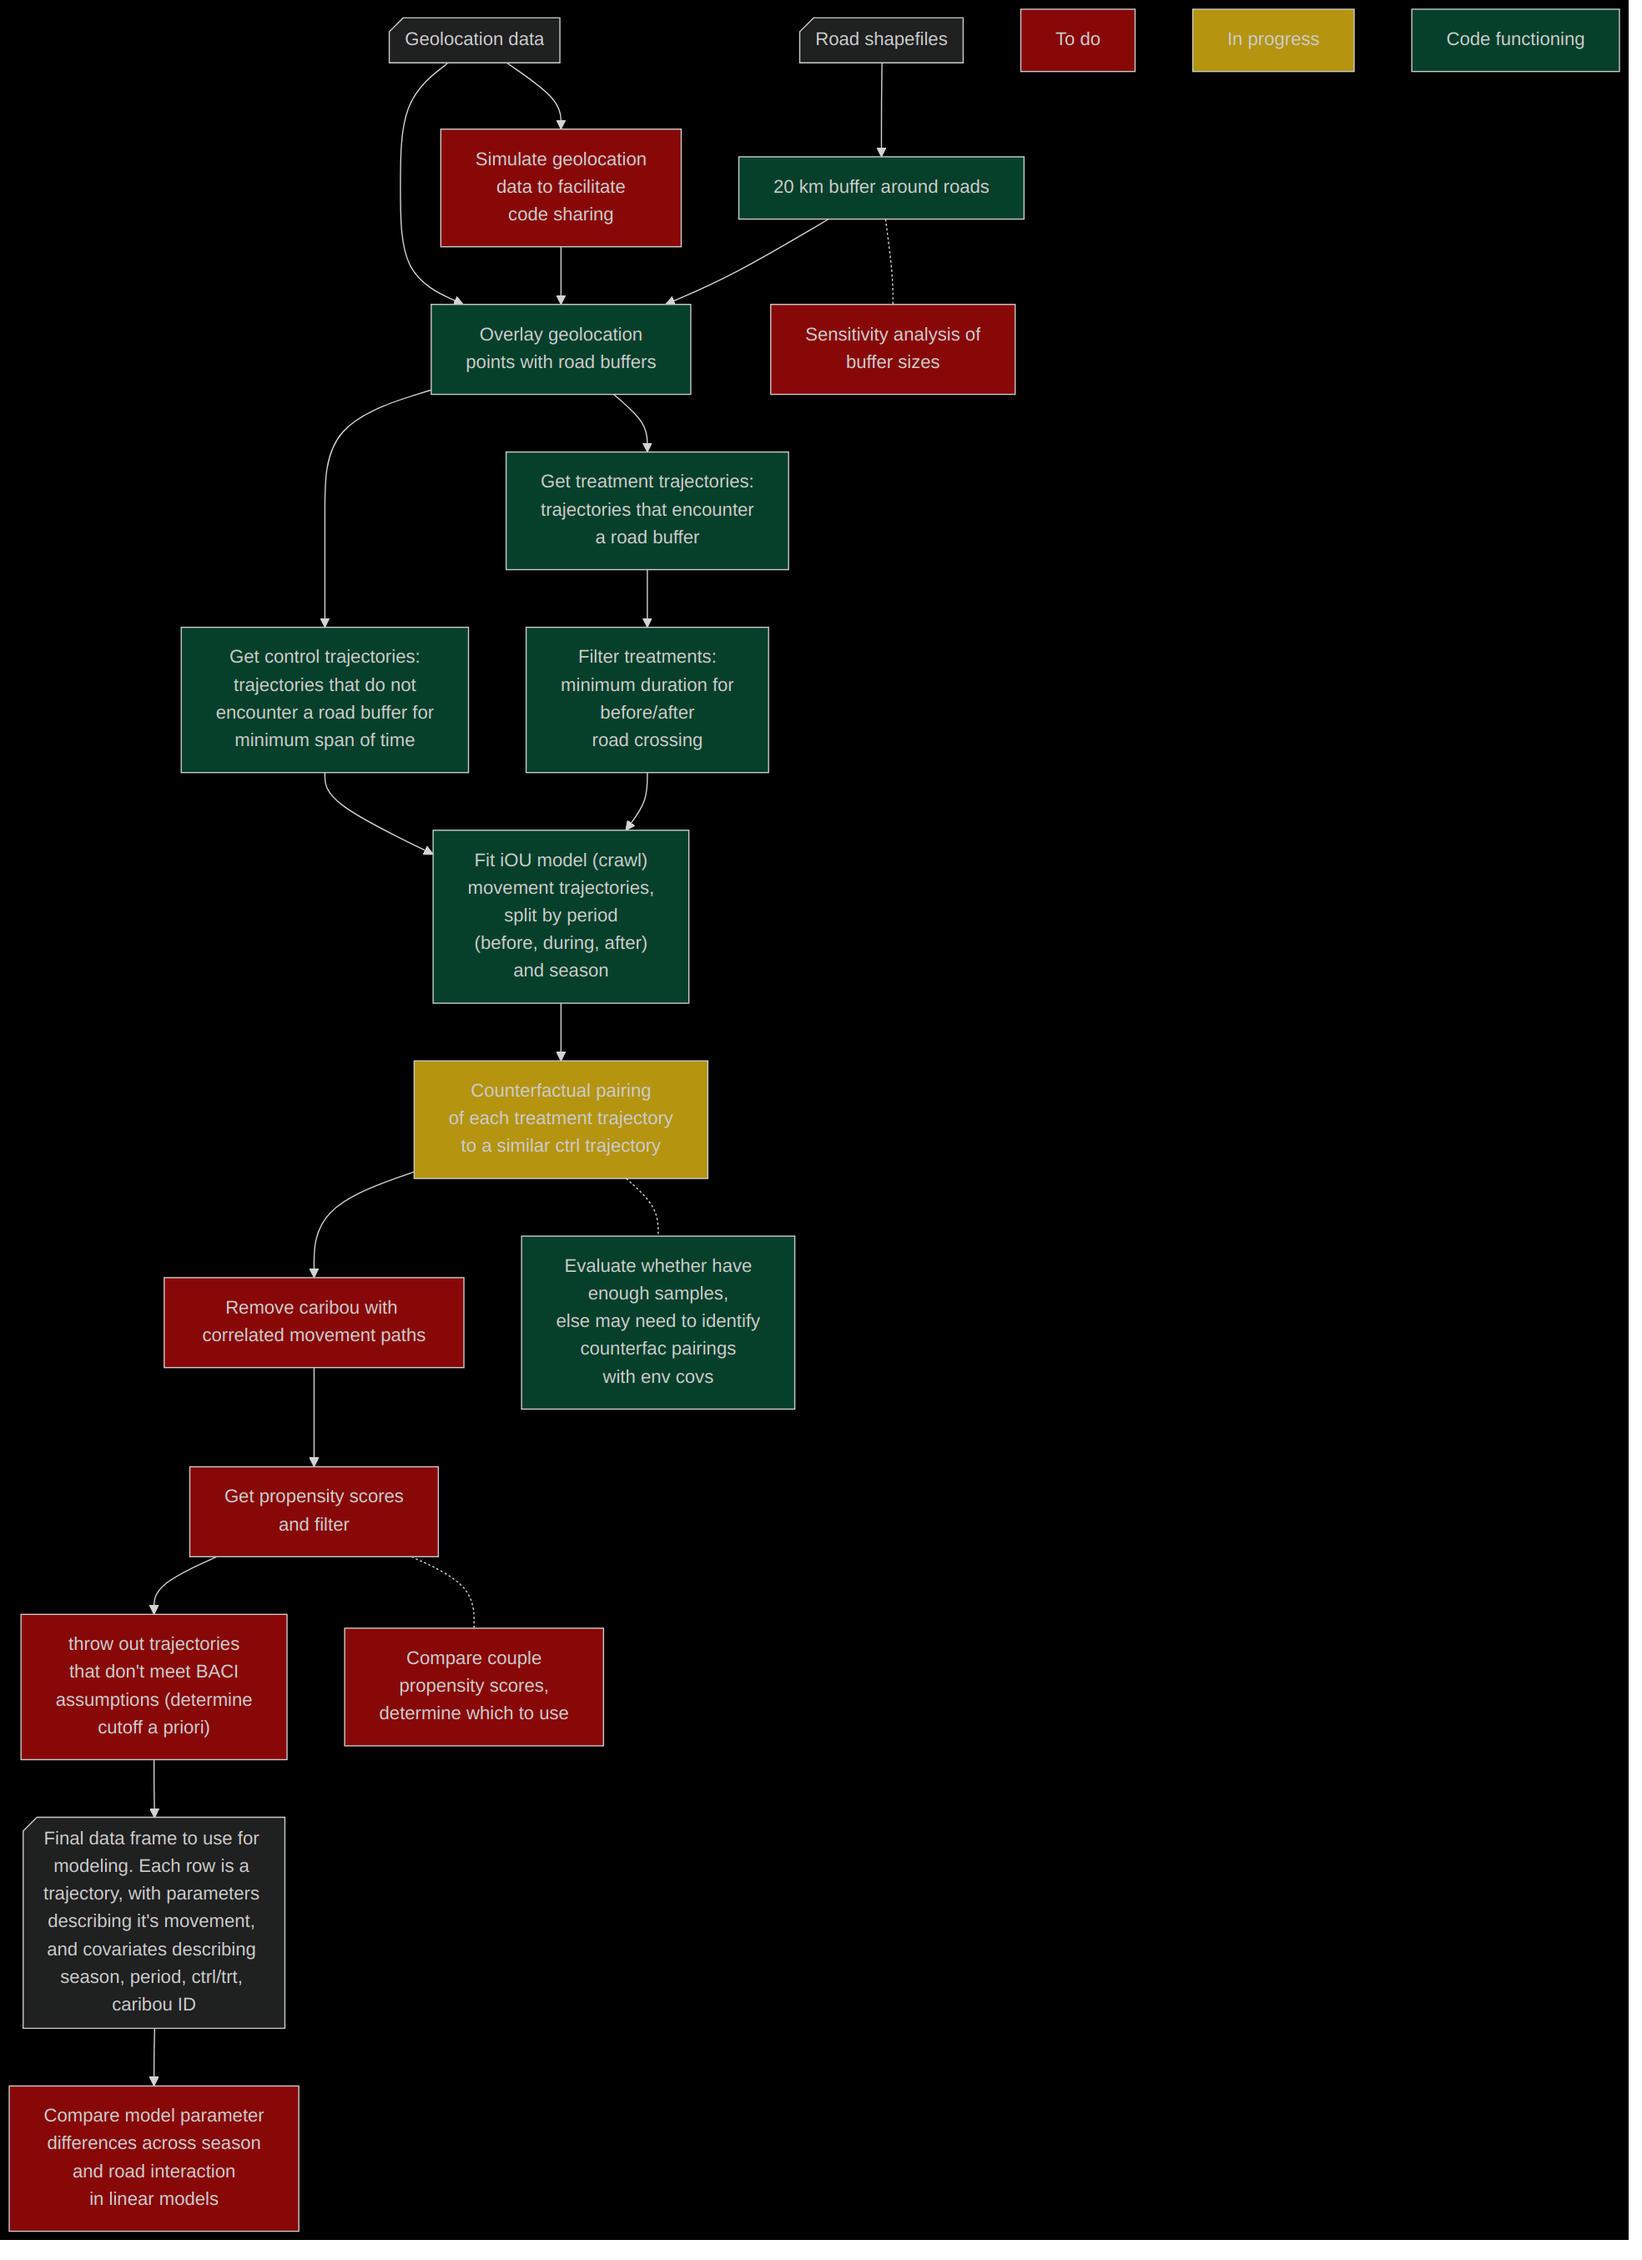
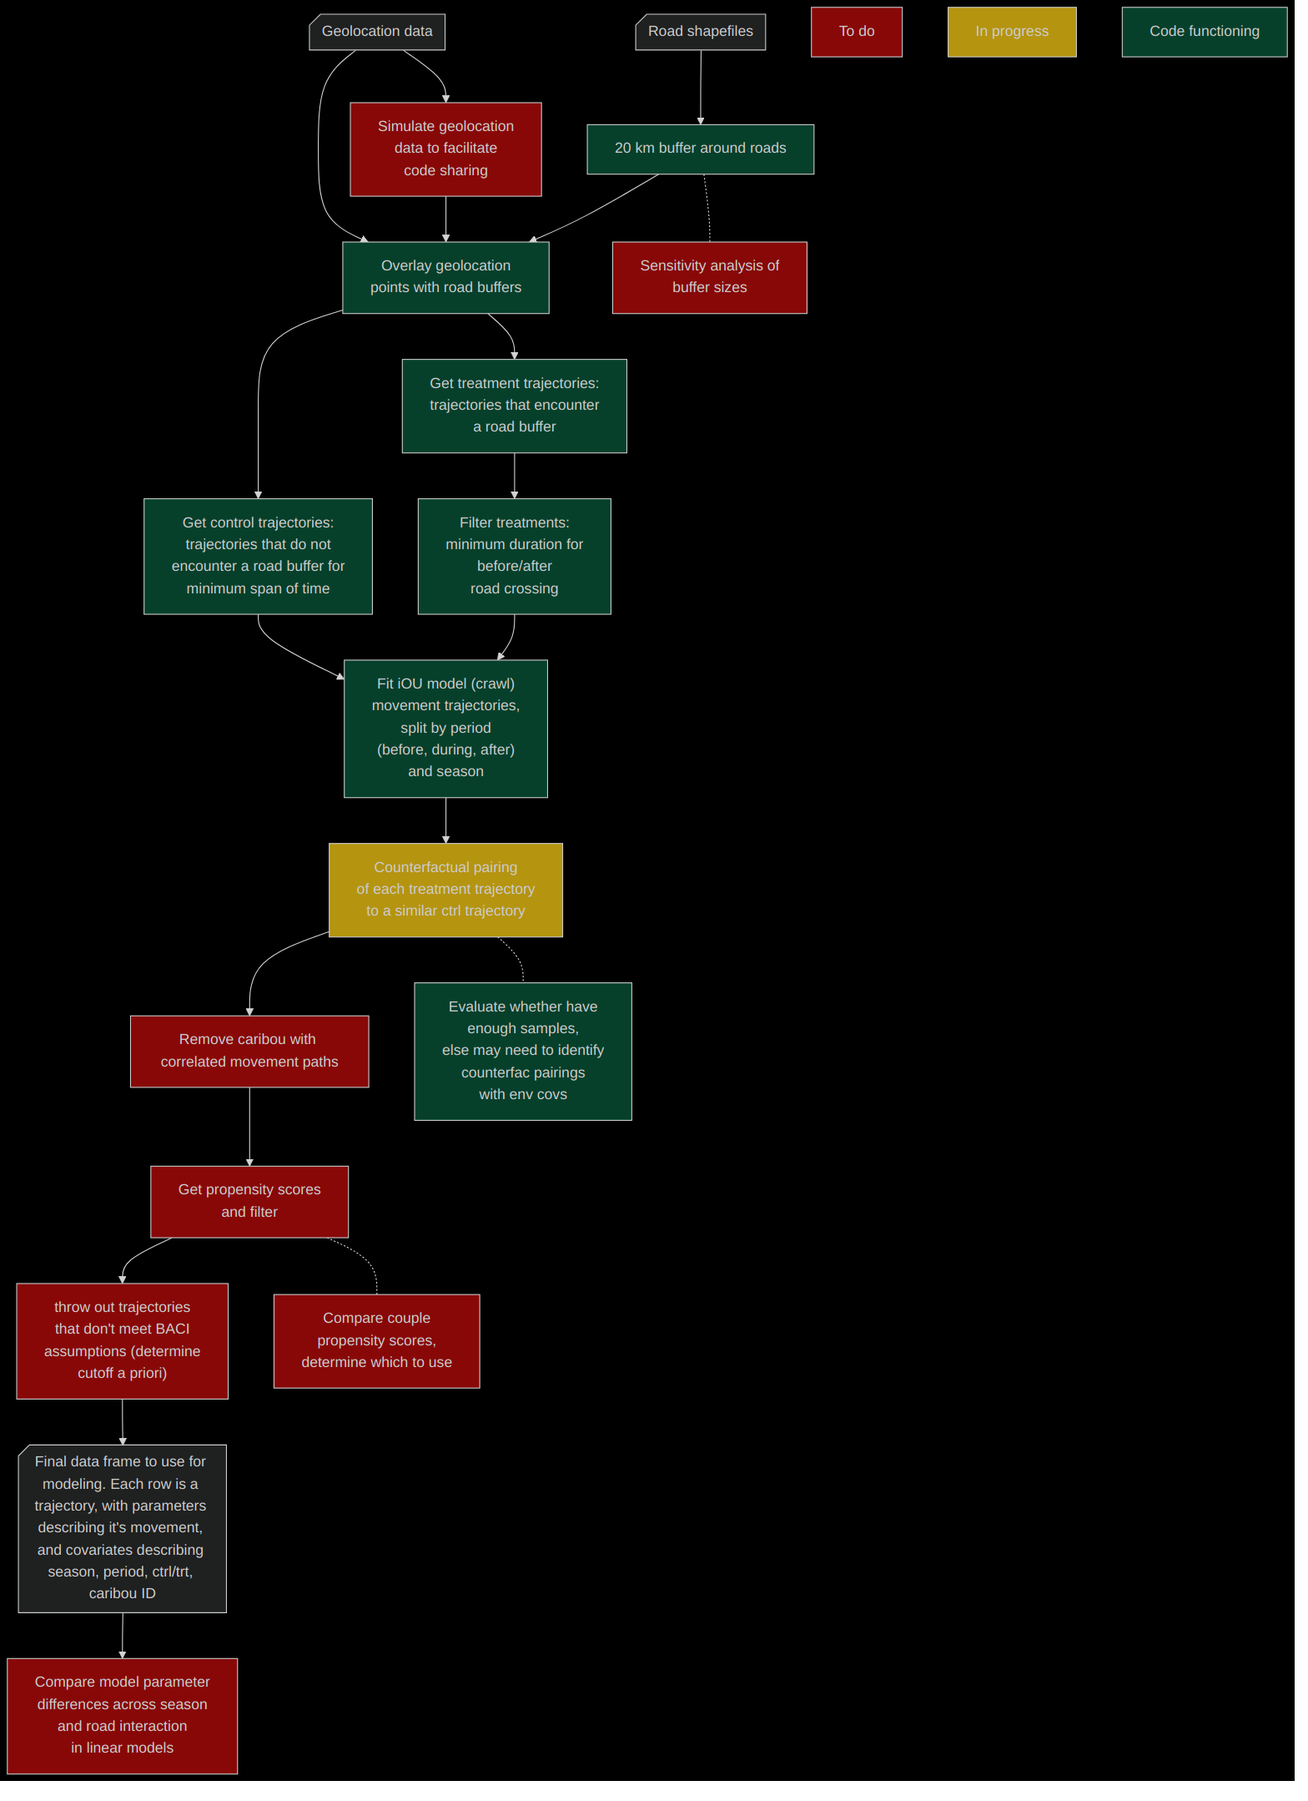
update format

diff --git a/Readme.md b/Readme.md
@@ -1,8 +1,14 @@
 MvBACI
 ================
 
+<style type="text/css">
+body {
+  background-color: #000000;
+}
+</style>
+
 ## Overview
 
 ## Pipeline
 
-<img src="Documents/mvBACIpipeline.png" width="630" />
+<img src="Documents/mvBACIpipeline.svg" width="1000" />
